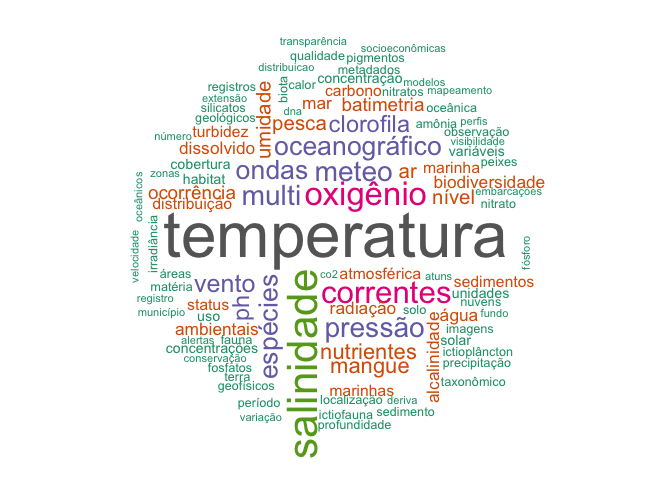
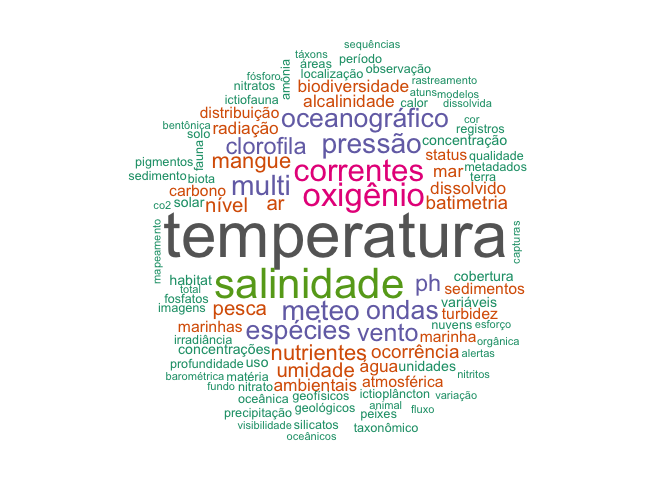
arrumar gramatica

Changed region(s): [[0.1875, 0.0625, 0.8125, 0.9688]]

diff --git a/Relatorio/Relatorio.md b/Relatorio/Relatorio.md
@@ -24,36 +24,36 @@ de forma ampla.
 ***Contexto da Ciência Oceânica no Brasil e Evolução da Gestão de
 Dados***
 
-Nas últimas duas décadas, a ciência oceânica no Brasil tem passado por
+Nas últimas duas décadas, a ciência oceânica no Brasil passou por
 mudanças significativas na disponibilidade, acessibilidade e gestão de
-dados. No início dos anos 2000, o armazenamento dos dados oceanográficos
-era fragmentado, nao somente no Brasil mas tambem no contexto mundial,
-com dados concentrados em laboratorios individuais de instituições de
-pesquisa. Nao havia uma grande padronização, nem como mecanismos
-compartilhados para disponibilidade desses dados compartilhamento. Nos
-ultimos 20 anos vimos uma mudanca nesse panorama, com o desenvolvimento
-de repositórios e plataformas de dados – tantos nacionais como
-internacionais – que permitem o compartilhamento de dados e acesso a
-fontes diversas. Plataformas nacionais como o SiBBr, INPE-BIG, INDE, em
-âmbito internacional, o WOD, SeaDataNet e PANGAEA, tem ampliado o acesso
-e a interoperabilidade de informações oceânicas.
+dados. No início dos anos 2000, o armazenamento de dados oceanográficos
+era fragmentado, não apenas no Brasil, mas também no contexto mundial,
+com informações concentradas em laboratórios individuais de instituições
+de pesquisa. Não havia grande padronização nem mecanismos consolidados
+para o compartilhamento desses dados.Nos últimos 20 anos, observamos uma
+transformação desse panorama, com o desenvolvimento de repositórios e
+plataformas de dados — tanto nacionais quanto internacionais — que
+permitem o compartilhamento e o acesso a fontes diversas. Plataformas
+nacionais como o SiBBr, INPE-BIG e INDE, e, em âmbito internacional, o
+WOD, SeaDataNet e o PANGAEA, ampliaram o acesso e a interoperabilidade
+de informações oceânicas.
 
 Um fator central dessa transformação é a expansão da coleta de dados,
 impulsionada por boias, sensores autônomos, veículos não tripulados,
 imagens de satélite e iniciativas de ciência cidadã. Os desafios
 recentes, tanto na ciência quanto na gestão baseada em evidências – em
-particular as mudanças climáticas – demandam um volume cada vez maior de
-dados, como ocorre em modelos do Sistema Terrestre Global, que assimilam
-informações para melhorar sua performance, ou em gêmeos digitais
-(digital twins), que replicam sistemas complexos para simulação e
-análise. Nesse contexto, observa-se também um crescente movimento de
-formação de redes nacionais e globais de observação. Essas mudanças
-colocam a pesquisa brasileira em oceanografia na era do big data,
-caracterizada por grandes volumes, formatos diversos e conjuntos de
-dados dispersos. Apesar dos avanços, ainda existe fragmentação, e os
-pesquisadores enfrentam desafios para localizar, acessar e integrar
-diferentes conjuntos de dados devido à falta de padronização e de
-protocolos de metadados consistentes.
+especial aqueles relacionados às mudanças climáticas – demandam um
+volume cada vez maior de dados. Isso inclui, por exemplo, modelos do
+Sistema Terrestre Global, que assimilam informações para aprimorar sua
+performance, e gêmeos digitais (digital twins), que replicam sistemas
+complexos para fins de simulação e análise. Nesse contexto, observa-se
+também um movimento crescente de formação de redes nacionais e globais
+de observação. As transformações em curso colocam a pesquisa brasileira
+em oceanografia na era do big data, marcada por grandes volumes de
+informação, múltiplos formatos e conjuntos de dados dispersos. Apesar
+dos avanços, a fragmentação ainda persiste, e pesquisadores enfrentam
+desafios para localizar, acessar e integrar diferentes bases devido à
+falta de padronização e de protocolos consistentes de metadados.
 
 O gerenciamento adequado de dados de pesquisa é um desafio persistente.
 Dados bem organizados garantem que possam ser reutilizados além do
@@ -82,8 +82,8 @@ O INPO desenvolve processos estruturantes que fortalecem a capacidade
 nacional de pesquisa, integram dados e infraestrutura e garantem a
 aplicabilidade do conhecimento pela sociedade, setor privado e órgãos
 governamentais. Entre esses projetos, destaca-se a implementação do SADD
-(Sistema de Acesso a Dados e Documentos Oceanográficos, nome
-provisório), que visa atender à demanda da comunidade científica por uma
+(Sistema de Armazenamento e Disponibilização de Dados **inventei
+arrumar**), que visa atender à demanda da comunidade científica por uma
 infraestrutura de dados interoperável e de fácil acesso, reunindo todos
 os dados oceanográficos e costeiros do Brasil.
 
@@ -107,7 +107,7 @@ públicas. Especificamente, o diagnóstico busca:
 Os temas centrais incluem pesca e aquicultura marinha, fontes de energia
 do oceano, transporte marítimo e operações portuárias, priorizando áreas
 que possam gerar produtos e serviços comercializáveis e subsidiar a
-elaboração de policy briefs e a implementação do SID-Oceano.
+elaboração de policy briefs e a implementação da infraestrutura SADD.
 
 O diagnóstico será desenvolvido em ciclos, combinando diferentes
 abordagens metodológicas para garantir abrangência e representatividade.
